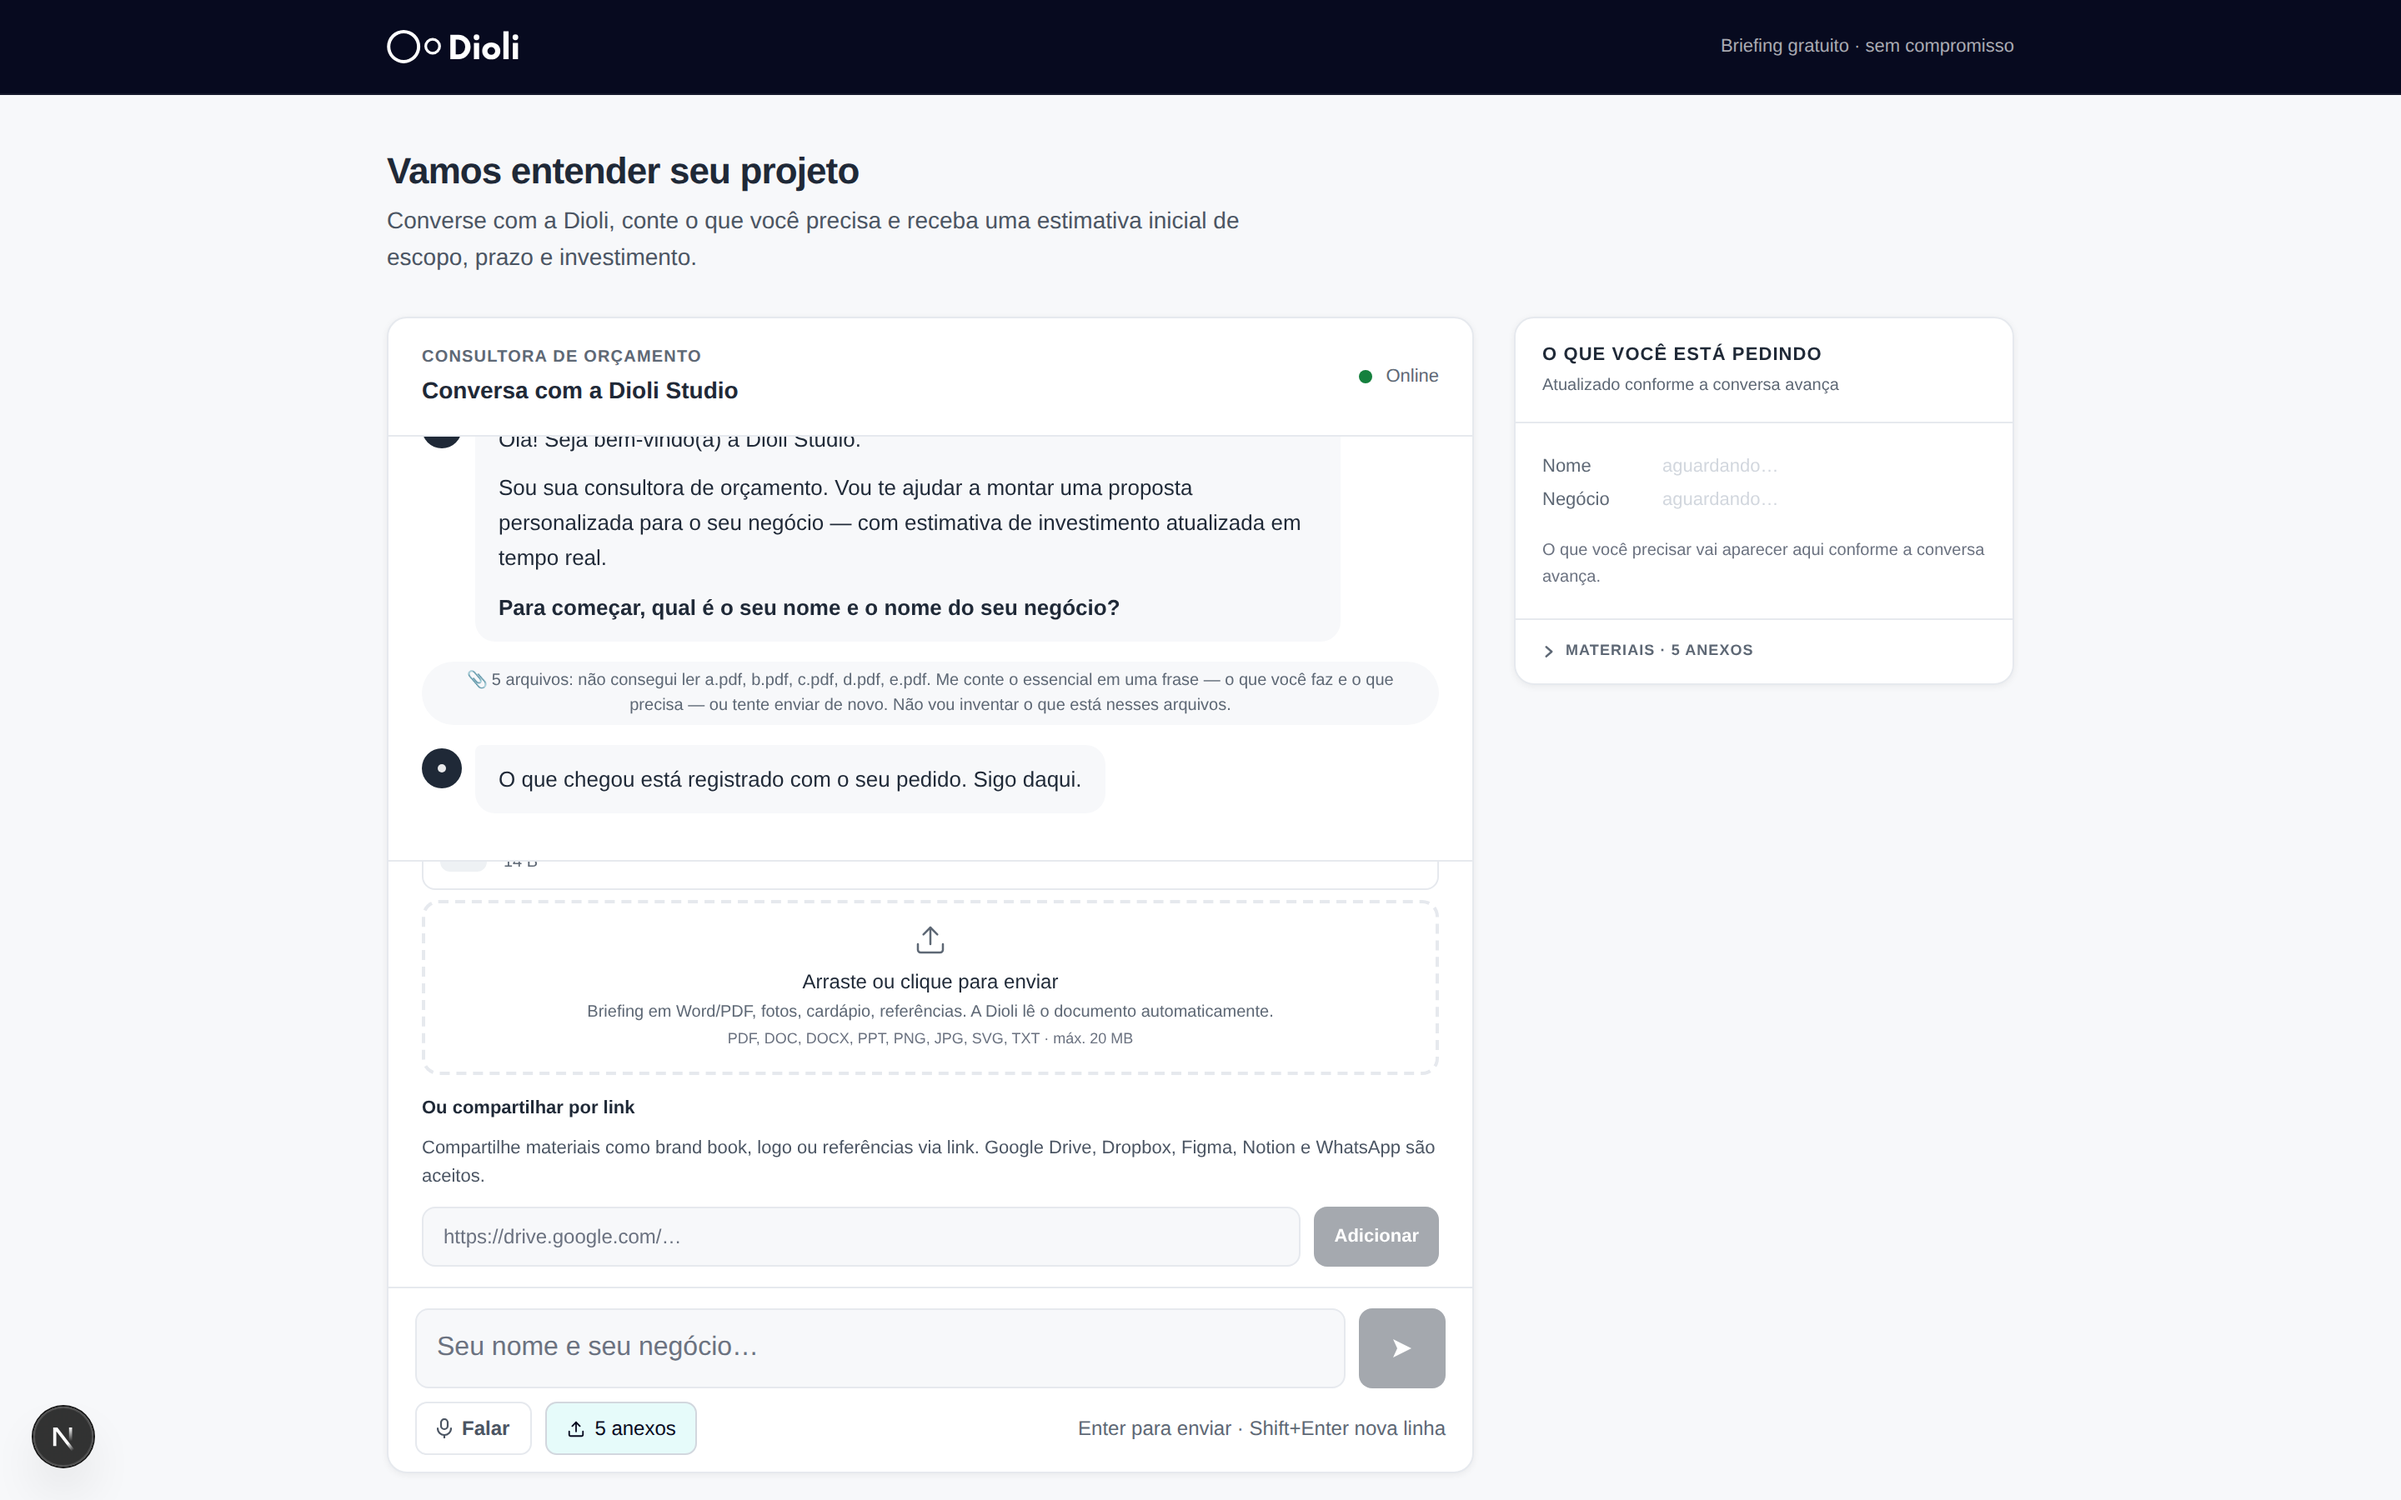
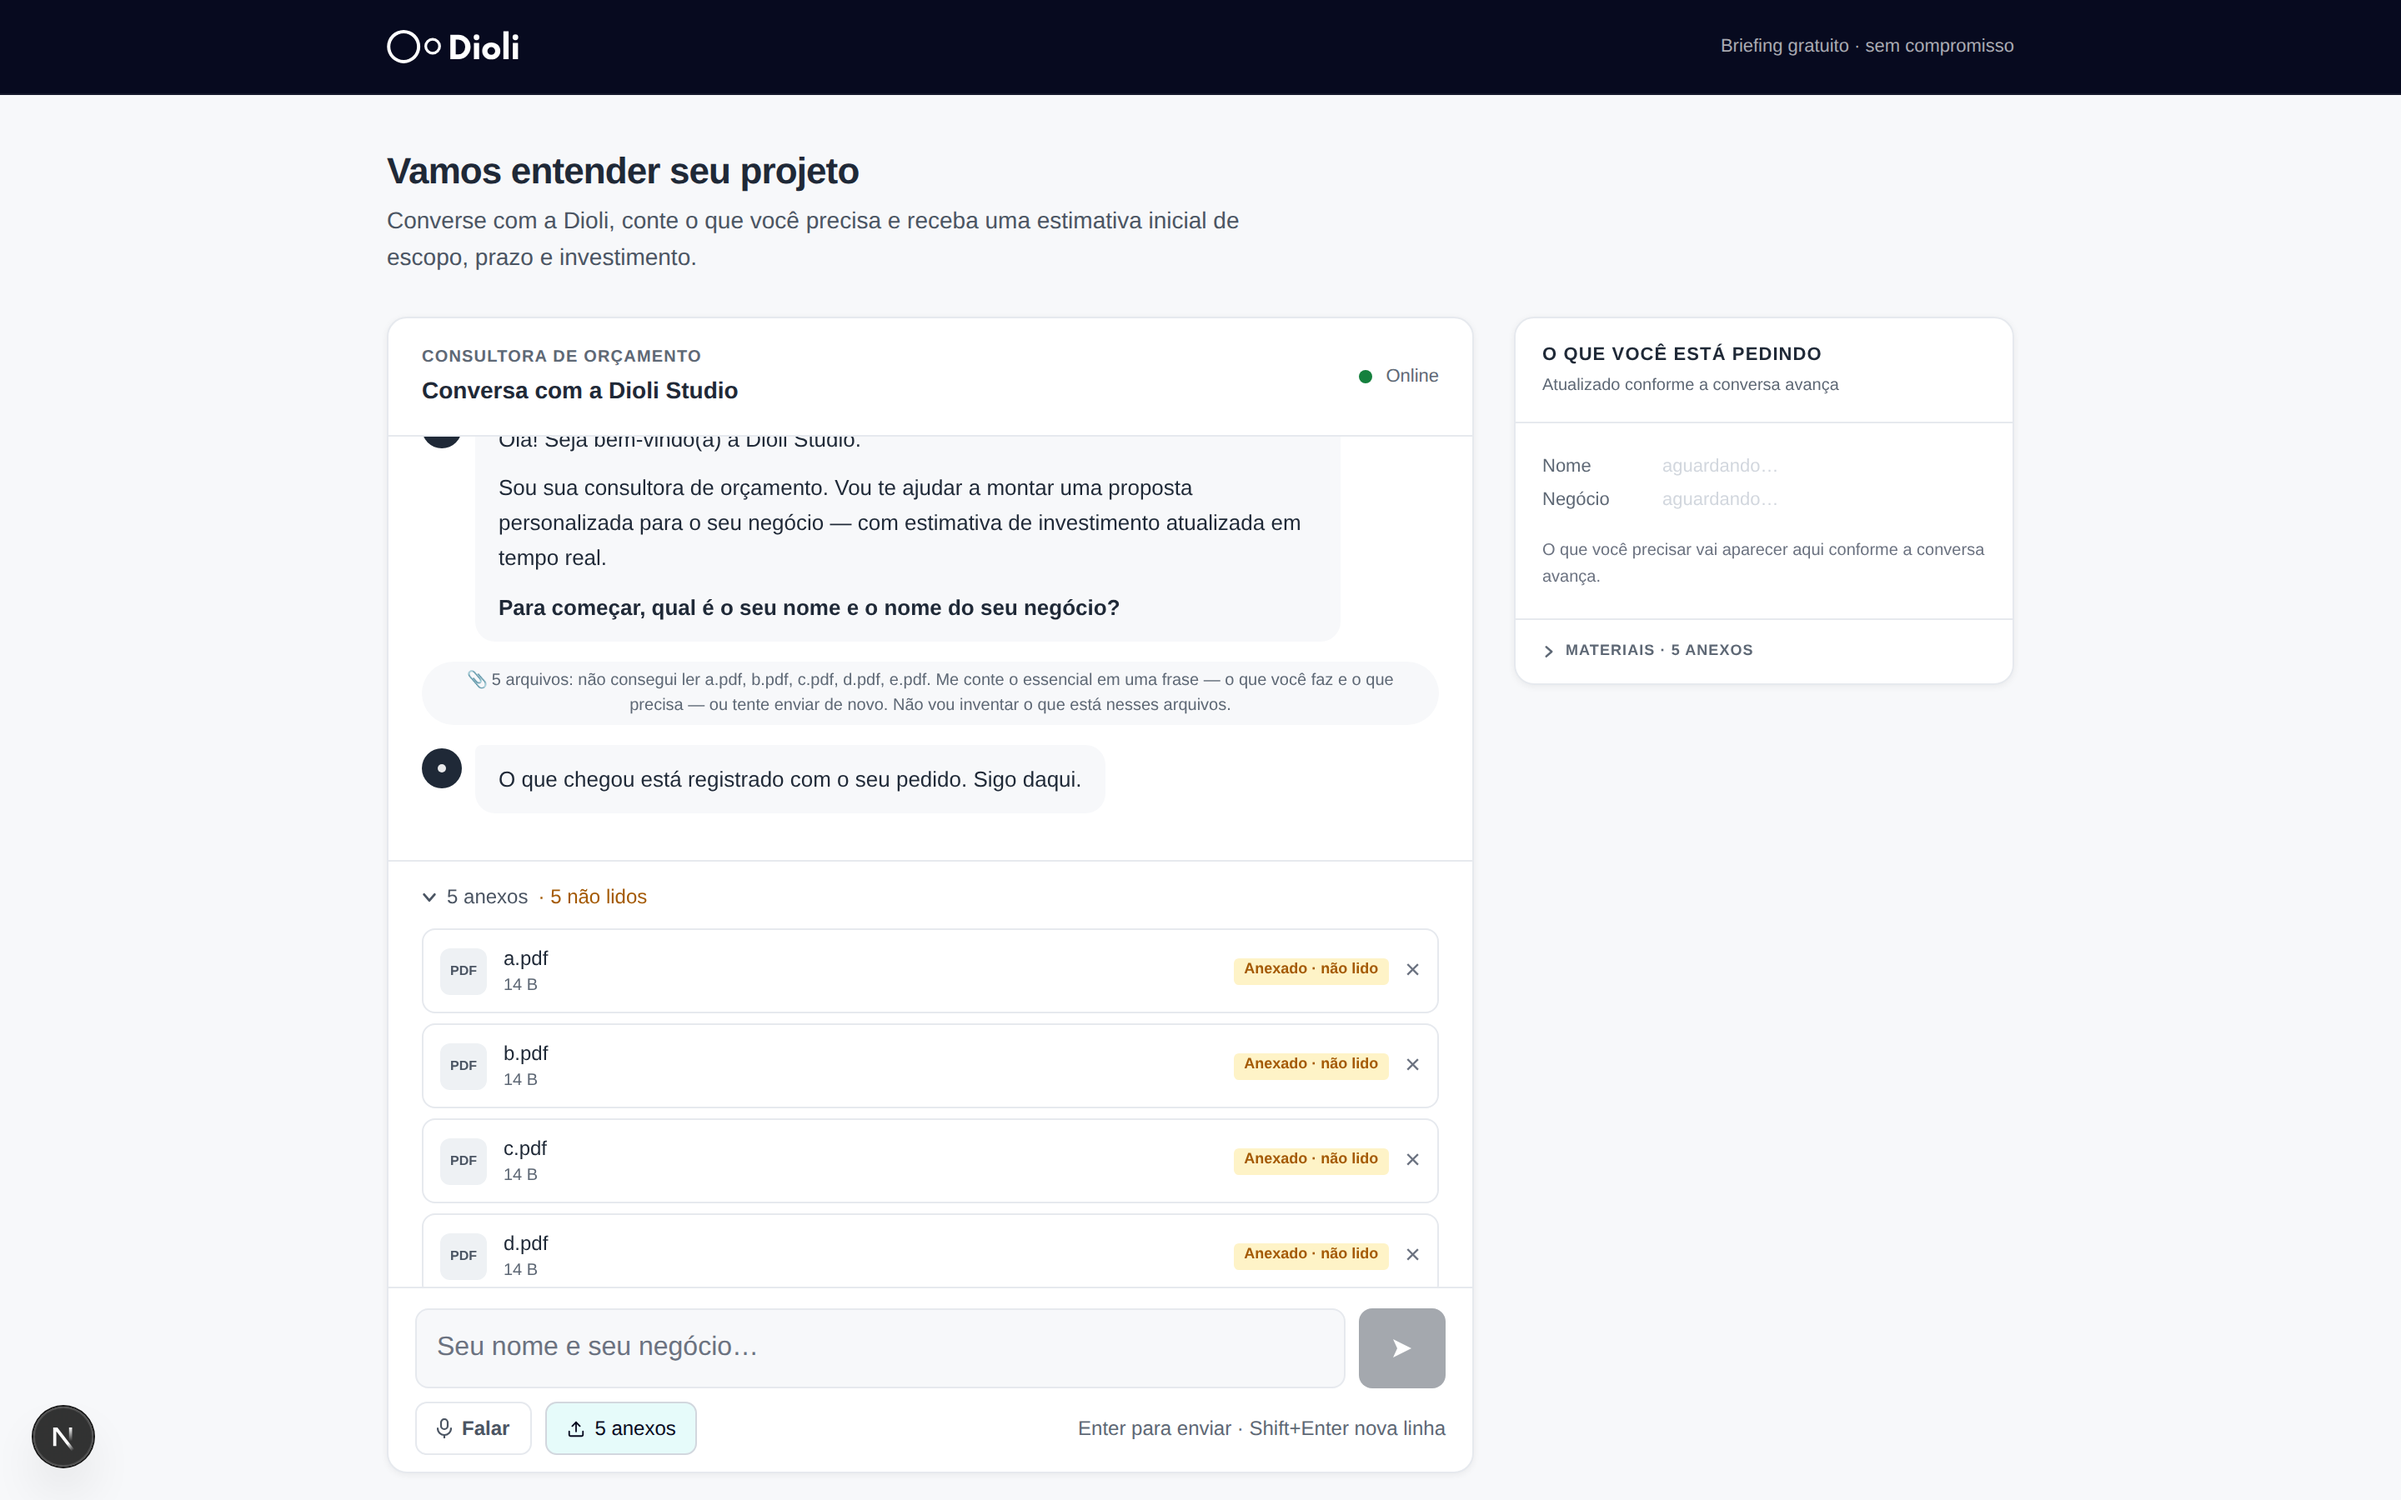
A captura de prova passa a sair no estado que ela afirma, e a promessa da zona de soltar ganha a condicao que faltava
F1 — os quatro `*-lista-aberta.png` mostravam o FUNDO do painel (o campo de
link), nao a lista aberta: em `scripts/medir-a-vista-do-briefing.mjs` o
`SHOT_ABERTA` disparava DEPOIS do bloco que forcava `scrollTop = scrollHeight`.
A medicao estava certa e a foto mostrava o oposto do que o nome dela dizia —
custou uma rodada de auditoria contra um conserto que estava correto.

A foto agora sai na mesma linha da medicao que ela ilustra, antes de qualquer
rolagem que dedo nenhum deu. Tres estados, tres variaveis, tres nomes: `SHOT`
(fechada), `SHOT_ABERTA` (instante do toque), `SHOT_FIM` (painel no fim) — o
estado do fim tinha ficado sem variavel propria, e foi por isso que roubou a
da lista aberta. As quatro capturas refeitas nos quatro tamanhos.

F2 — o comentario de `BriefingFileUpload` e o bloco E3 de `docs/pendencias.md`
afirmavam "a zona de soltar SEMPRE na tela". Metade e falsa: com a lista
ABERTA, medida no instante do toque, a dropzone pinta 0/120 (375x600),
0/120 (375x812), 0/105 (768x1024) e 0/105 (1440x900) — zero pixel nos quatro.
Vale com a lista FECHADA, que e o padrao. A condicao entrou nos dois lugares:
afirmacao sem condicao vira premissa, e e o que faz o proximo apagar a
protecao achando que ela e redundante — a mesma doenca do piso remedido.

Vitrine de `experiencia`: "captura entregue como prova e tirada NO estado que
ela afirma", com as tres metades — um estado por variavel e por nome, a foto
na mesma linha da medicao, e olhar a imagem antes de anexar.
[…]

Changed region(s): [[0.1875, 0.5911, 0.625, 0.8711], [0.1875, 0.7156, 0.2812, 0.84], [0.2812, 0.7467, 0.3125, 0.7778]]

diff --git a/components/agency/briefing/PublicBriefingRoom.tsx b/components/agency/briefing/PublicBriefingRoom.tsx
@@ -1741,7 +1741,21 @@ function BriefingFileUpload({
   // arrastar exigem. Então o AVISO subiu para a linha do resumo, que mede 30px
   // e foi medida INTEIRA nos quatro tamanhos — e a lista voltou a ser o detalhe
   // que se abre com um toque. Trocamos "0 de 5 selos e nenhuma zona de soltar"
-  // por "o fato agregado sempre na tela, e a zona de soltar sempre na tela".
+  // por "o fato agregado sempre na tela, e a zona de soltar na tela COM A LISTA
+  // FECHADA — que é como a tela abre".
+  //
+  // ⚠ A CONDIÇÃO NÃO É DETALHE, E ELA JÁ FOI OMITIDA UMA VEZ AQUI (16/08/2026).
+  // Este comentário dizia "a zona de soltar SEMPRE na tela". É falso com a lista
+  // ABERTA: medida no instante do toque, a dropzone pinta **0/120 a 375×600,
+  // 0/120 a 375×812, 0/105 a 768×1024 e 0/105 a 1440×900** — zero pixel nos
+  // quatro, exatamente o defeito que a abertura automática causava. O que a
+  // troca compra é a zona na tela no estado PADRÃO (lista fechada); abrir a
+  // lista continua custando a zona, e é por isso que abrir é escolha da pessoa
+  // e não do componente.
+  //
+  // É a mesma doença diagnosticada no item 5 desta rodada — "piso cuja
+  // justificativa venceu é um número, não um piso". Afirmação sem a condição é
+  // o que faz o próximo apagar a proteção achando que ela é redundante.
   const { naoLidos, falhados, lendo } = resumoDosAnexos(items);
   const [aberto, setAberto] = useState(false);
 

diff --git a/docs/pendencias.md b/docs/pendencias.md
@@ -149,9 +149,17 @@ Os cinco consertos, e nenhum é redesenho:
 > Então o AVISO subiu para a linha do resumo — que mede 26px e foi medida
 > **inteira nos quatro tamanhos** — e a lista voltou a ser o detalhe que se abre
 > com um toque. **Trocamos "0 de 5 selos e nenhuma zona de soltar" por "o fato
-> agregado sempre na tela, e a zona de soltar sempre na tela".** Com a lista
-> aberta por um toque: 1 de 5 selos a 375×600, 3 de 5 a 375×812 e 768×1024, 4 de
-> 5 a 1440×900.
+> agregado sempre na tela, e a zona de soltar na tela COM A LISTA FECHADA — que
+> é como a tela abre".** Com a lista aberta por um toque: 1 de 5 selos a 375×600,
+> 3 de 5 a 375×812 e 768×1024, 4 de 5 a 1440×900.
+>
+> ⚠ **A condição foi acrescentada em 16/08, depois de `experiencia` medir:** o
+> texto original dizia "a zona de soltar **sempre** na tela", e isso é falso com
+> a lista aberta — medida no instante do toque, a dropzone pinta **0/120
+> (375×600), 0/120 (375×812), 0/105 (768×1024), 0/105 (1440×900)**. Zero pixel
+> nos quatro. Vale com a lista **fechada**, que é o padrão. Afirmação sem a
+> condição vira premissa, e premissa errada é o que faz o próximo apagar a
+> proteção achando que ela é redundante — a mesma doença do item 5 acima.
 
 ---
 
@@ -165,6 +173,17 @@ Os cinco consertos, e nenhum é redesenho:
 - [ ] `experiencia` — **selo POR ARQUIVO pinta 0px com a lista fechada**, que é
       como a tela abre. É escolha declarada (o agregado está no resumo), não
       esquecimento — mas quem quiser o detalhe dá um toque.
+- [ ] 🟠 `experiencia` (16/08, próxima rodada) — **com o painel FECHADO o âmbar
+      some da tela.** Só a bolha da conversa carrega o fato "5 não lidos", e ela
+      rola embora conforme a conversa anda: em dez mensagens o aviso não existe
+      mais em lugar nenhum. **O chip `5 anexos` do rodapé é o lugar natural do
+      aviso persistente** — hoje ele é a TERCEIRA repetição da mesma contagem na
+      mesma tela, e devia carregar o âmbar em vez de repetir o número.
+- [ ] `experiencia` (16/08) — **a 375 de largura, com o painel aberto, a linha 0
+      da bolha que NOMEIA os arquivos pinta 7 de 11px.** Cura-se sozinha ao
+      fechar o painel (um toque, que é o que a pessoa faz para voltar a
+      conversar), por isso é dívida e não bloqueante. **Se alguém for gastar 4px
+      nesta tela, gaste nessa linha.**
 - [ ] `experiencia` — **a 375×600 a zona de arrastar pinta 57 de 120px**: a seta
       e a frase cabem, as duas linhas de formato e tamanho não. Não há de onde
       tirar sem furar o piso útil da conversa.

diff --git a/docs/agents/experiencia/vitrine.md b/docs/agents/experiencia/vitrine.md
@@ -69,3 +69,34 @@ o especialista do domínio; a decisão de eliminar tela ou passo, para o PM.
 
 — promovido em 2026-08-07 pelo PM · origem: ordem do CEO de 07/08/2026 e
 `dioli-brain-kit/docs/23-constituicao-dos-essenciais.md`
+
+---
+
+## Captura entregue como prova é tirada NO estado que ela afirma
+
+O script que **mede** e o que **fotografa** costumam ser o mesmo arquivo — e é
+exatamente por isso que a foto sai do estado errado. Em 16/08/2026 os quatro
+`*-lista-aberta.png` mostravam o **fundo do painel** (o campo de link), não a
+lista aberta: o `if (process.env.SHOT_ABERTA)` estava seis linhas **depois** do
+bloco que forçava `scrollTop = scrollHeight`. A medição estava certa, o número
+entregue estava certo, e **a foto mostrava o oposto do que o nome dela dizia**.
+
+Custou uma rodada de auditoria inteira contra um conserto que estava certo, e
+quase custou mais: prova que contradiz o relato faz o auditor duvidar do relato,
+não da prova.
+
+**A regra, e as três metades dela:**
+
+1. **Um estado, uma variável de ambiente, um nome.** `SHOT`, `SHOT_ABERTA`,
+   `SHOT_FIM`. Nome de arquivo é afirmação — `lista-aberta.png` promete lista
+   aberta.
+2. **A foto sai na mesma linha da medição que ela ilustra.** Se o número saiu de
+   `comAListaAberta`, a foto sai antes de qualquer coisa que mude a tela depois
+   disso — rolagem programática que dedo nenhum deu é *mudança de estado*, não
+   enquadramento.
+3. **Antes de anexar, olhe a imagem.** A conferência que faltou é de dois
+   segundos: abrir o PNG e perguntar "isto é o que o nome diz?".
+
+— promovido em 2026-08-16 pelo PM · origem: F1 da auditoria de `experiencia` na
+rodada E3 do briefing · `scripts/medir-a-vista-do-briefing.mjs` (linha do
+`SHOT_ABERTA`) e `docs/entregas/briefing-e3-16-08/depois/`
